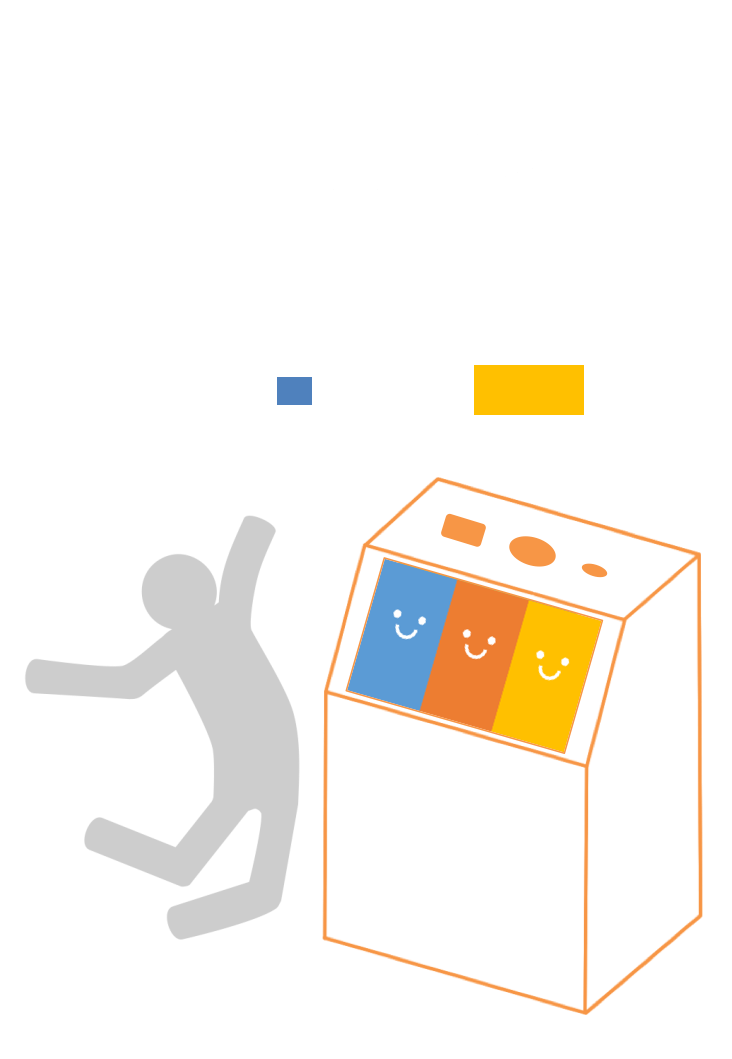
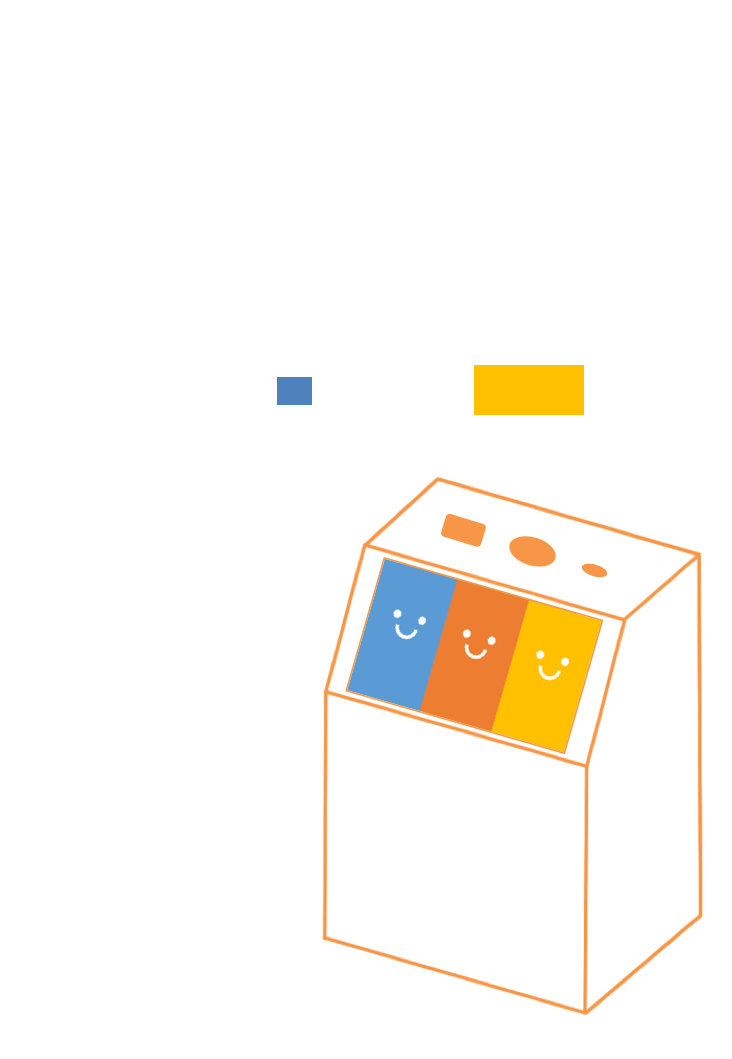
Add FirstView Image
初回説明の画像を変更しました。設定画面から説明を再度表示できるようにしました。

Changed region(s): [[0.0301, 0.4674, 0.4208, 0.9037]]

diff --git a/iOS/PoiPet/MainViewController.swift b/iOS/PoiPet/MainViewController.swift
@@ -153,39 +153,41 @@ class MainViewController: UIViewController,UICollectionViewDelegate,UICollection
         image1.frame = CGRectMake(0, 0, wBounds, wBounds)
         page1.titleIconView = image1
         page1.titleFont = UIFont.systemFontOfSize(CGFloat(18))
-        page1.title = "PoiPetはゴミ捨てや分別が楽しくなる\nペットボトル専用ゴミ箱です"
+        page1.title = "PoiPetは\nゴミ捨てや分別が楽しくなる\nペットボトル専用ゴミ箱です"
         page1.desc = "　"
         //page1.bgImage = UIImage(named:"PoiKunImg.png")
         page1.bgColor = UIColor(red: 230.0/255.0, green: 104.0/255.0, blue: 38.0/255.0, alpha: 1.0)//オレンジ
         
         let page2 : EAIntroPage = EAIntroPage()
-        //     page2.titleIconView = UIImageView(image: UIImage(named: "cheer.png"))
-        
+        let image2 = UIImageView(image: UIImage(named: "poi3.png"))
+        image2.contentMode = .ScaleAspectFit
+        image2.frame = CGRectMake(0, 0, wBounds, wBounds)
+        page2.titleIconView = image2
         page2.titleFont = UIFont.systemFontOfSize(CGFloat(18))
-        page2.title = "まずは\nPoiPetにICカードをタッチして\n表示された4桁の数字をアプリに入力し\nユーザ登録をしてください"
+        page2.title = "まずは\nPoiPetにICカードをタッチして\n表示される4桁の数字を\nアプリに入力してください"
         page2.desc = "　"
         //page2.bgImage = UIImage(named:"PoiKunImg.png")
         page2.bgColor = UIColor(red: 75.0/255.0, green: 135.0/255.0, blue: 203.0/255.0, alpha: 1.0)//オレンジ
         
         let page3 : EAIntroPage = EAIntroPage()
-        let image3 = UIImageView(image: UIImage(named: "poipet_iphone.png"))
+        let image3 = UIImageView(image: UIImage(named: "poi2.png"))
         image3.contentMode = .ScaleAspectFit
         image3.frame = CGRectMake(0, 0, wBounds, wBounds)
         page3.titleIconView = image3
         page3.titleFont = UIFont.systemFontOfSize(CGFloat(18))
-        page3.title = "PoiPetにICカードをタッチすることで\nいつどこでいくつ\nペットボトルを捨てたかを\nアプリに記録することができます"
+        page3.title = "PoiPet for iPhoneでは\nいつどこでいくつ\nペットボトルを捨てたかを\n記録することができます"
         page3.desc = "　"
         //page3.bgImage = UIImage(named:"PoiKunImg.png")
         page3.bgColor = UIColor(red: 253.0/255.0, green: 181.0/255.0, blue: 10.0/255.0, alpha: 1.0)//オレンジ
         
         let page4 : EAIntroPage = EAIntroPage()
-        let image4 = UIImageView(image: UIImage(named: "poipet_gaiyo.png"))
+        let image4 = UIImageView(image: UIImage(named: "poi4.png"))
         image4.contentMode = .ScaleAspectFit
         image4.frame = CGRectMake(0, 0, wBounds, wBounds)
         page4.titleIconView = image4
         
         page4.titleFont = UIFont.systemFontOfSize(CGFloat(18))
-        page4.title = "PoiPetに楽しく\nPoiしましょう"
+        page4.title = "PoiPetとアプリと連携して\nみんなで楽しく\nPoiしましょう"
         page4.desc = "　"
         //page3.bgImage = UIImage(named:"PoiKunImg.png")
         page4.bgColor = UIColor(red: 230.0/255.0, green: 104.0/255.0, blue: 38.0/255.0, alpha: 1.0)//オレンジ
@@ -259,15 +261,17 @@ class MainViewController: UIViewController,UICollectionViewDelegate,UICollection
                 }
                 
                 print("通信完了")
+                self.indicator.stopAnimation(true, completion: nil)
+                self.indicator.removeFromSuperview()
                 
                 if self.view.viewWithTag(100) != nil{
                     
                     let remove:UIView = self.view.viewWithTag(100)!
-                    UIView.animateWithDuration(0.1, animations: {
+                    UIView.animateWithDuration(0.3, animations: {
                         
                         remove.alpha=0.0
                         remove.removeFromSuperview()
-                        self.indicator.stopAnimation(true, completion: nil)
+                        
                         
                         }, completion: { finished in
                             
@@ -371,7 +375,7 @@ class MainViewController: UIViewController,UICollectionViewDelegate,UICollection
             }
             
             
-            UIView.animateWithDuration(0.2, animations: {
+            UIView.animateWithDuration(0.3, animations: {
                 /* if self.swipeCount > 0{
                 //calendarViews.layer.position = CGPointMake(self.wBounds*3/2, calendarViews.frame.height/2 + self.hNavigation)
                 rightCalendarViews.layer.position = CGPointMake(self.wBounds/2, calendarViews.frame.height/2 + self.hNavigation)

diff --git a/iOS/PoiPet/UserSettingViewController.swift b/iOS/PoiPet/UserSettingViewController.swift
@@ -19,11 +19,17 @@ class UserSettingViewController: UIViewController, UITextFieldDelegate,NSURLSess
     var userName: String = ""
     
     @IBOutlet weak var RegistrationButton: UIButton!
+    //レイアウト
+    var wBounds:CGFloat=0.0
+    var hBounds:CGFloat=0.0
     
     let indicator:SpringIndicator = SpringIndicator()
     
     override func viewDidLoad() {
         super.viewDidLoad()
+        
+        wBounds = self.view.bounds.width
+        hBounds = self.view.bounds.height*3/4
         
         RegistrationIDTextField.delegate=self
         RegistrationIDTextField.tag=0
@@ -140,6 +146,64 @@ class UserSettingViewController: UIViewController, UITextFieldDelegate,NSURLSess
         })
         
     }
+    
+    @IBAction func setumeiButton(sender: AnyObject) {
+        
+        //はじめての画面
+        self.showIntroWithCrossDissolve()
+        
+    }
+    //説明View
+    func showIntroWithCrossDissolve(){
+        
+        let page1 : EAIntroPage = EAIntroPage()
+        let image1 = UIImageView(image: UIImage(named: "poipet_gaiyo.png"))
+        image1.contentMode = .ScaleAspectFit
+        image1.frame = CGRectMake(0, 0, wBounds, wBounds)
+        page1.titleIconView = image1
+        page1.titleFont = UIFont.systemFontOfSize(CGFloat(18))
+        page1.title = "PoiPetは\nゴミ捨てや分別が楽しくなる\nペットボトル専用ゴミ箱です"
+        page1.desc = "　"
+        page1.bgColor = UIColor(red: 230.0/255.0, green: 104.0/255.0, blue: 38.0/255.0, alpha: 1.0)//オレンジ
+        
+        let page2 : EAIntroPage = EAIntroPage()
+        let image2 = UIImageView(image: UIImage(named: "poi3.png"))
+        image2.contentMode = .ScaleAspectFit
+        image2.frame = CGRectMake(0, 0, wBounds, wBounds)
+        page2.titleIconView = image2
+        page2.titleFont = UIFont.systemFontOfSize(CGFloat(18))
+        page2.title = "まずは\nPoiPetにICカードをタッチして\n表示される4桁の数字を\nアプリに入力してください"
+        page2.desc = "　"
+        page2.bgColor = UIColor(red: 75.0/255.0, green: 135.0/255.0, blue: 203.0/255.0, alpha: 1.0)//オレンジ
+        
+        let page3 : EAIntroPage = EAIntroPage()
+        let image3 = UIImageView(image: UIImage(named: "poi2.png"))
+        image3.contentMode = .ScaleAspectFit
+        image3.frame = CGRectMake(0, 0, wBounds, wBounds)
+        page3.titleIconView = image3
+        page3.titleFont = UIFont.systemFontOfSize(CGFloat(18))
+        page3.title = "PoiPet for iPhoneでは\nいつどこでいくつ\nペットボトルを捨てたかを\n記録することができます"
+        page3.desc = "　"
+        page3.bgColor = UIColor(red: 253.0/255.0, green: 181.0/255.0, blue: 10.0/255.0, alpha: 1.0)//オレンジ
+        
+        let page4 : EAIntroPage = EAIntroPage()
+        let image4 = UIImageView(image: UIImage(named: "poi4.png"))
+        image4.contentMode = .ScaleAspectFit
+        image4.frame = CGRectMake(0, 0, wBounds, wBounds)
+        page4.titleIconView = image4
+        
+        page4.titleFont = UIFont.systemFontOfSize(CGFloat(18))
+        page4.title = "PoiPetとアプリと連携して\nみんなで楽しく\nPoiしましょう"
+        page4.desc = "　"
+        page4.bgColor = UIColor(red: 230.0/255.0, green: 104.0/255.0, blue: 38.0/255.0, alpha: 1.0)//オレンジ
+        
+        let intro : EAIntroView = EAIntroView(frame: self.view.bounds, andPages:[page1,page3,page2,page4])
+        //intro.delegate = self
+        intro.showInView(self.view, animateDuration:0.0)
+        
+    }
+
+    
     
     @IBAction func unwindToTop(segue: UIStoryboardSegue) {
         
